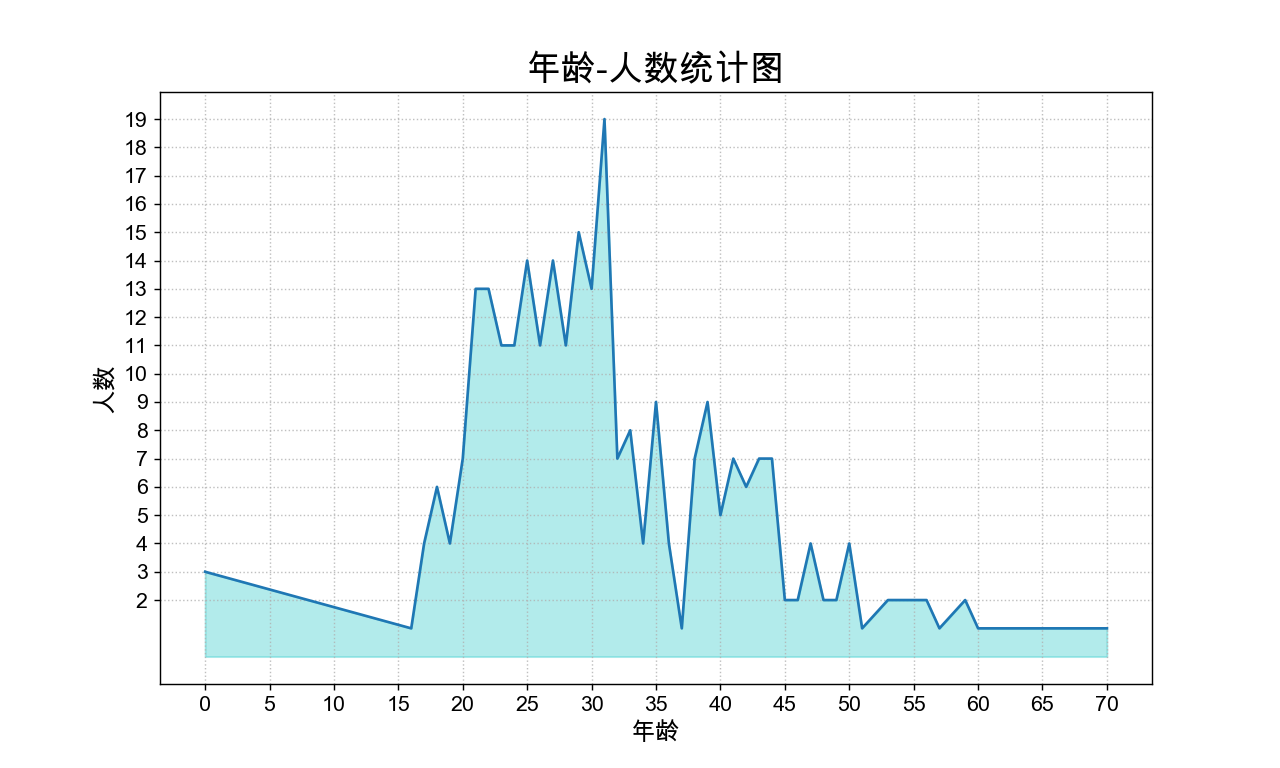
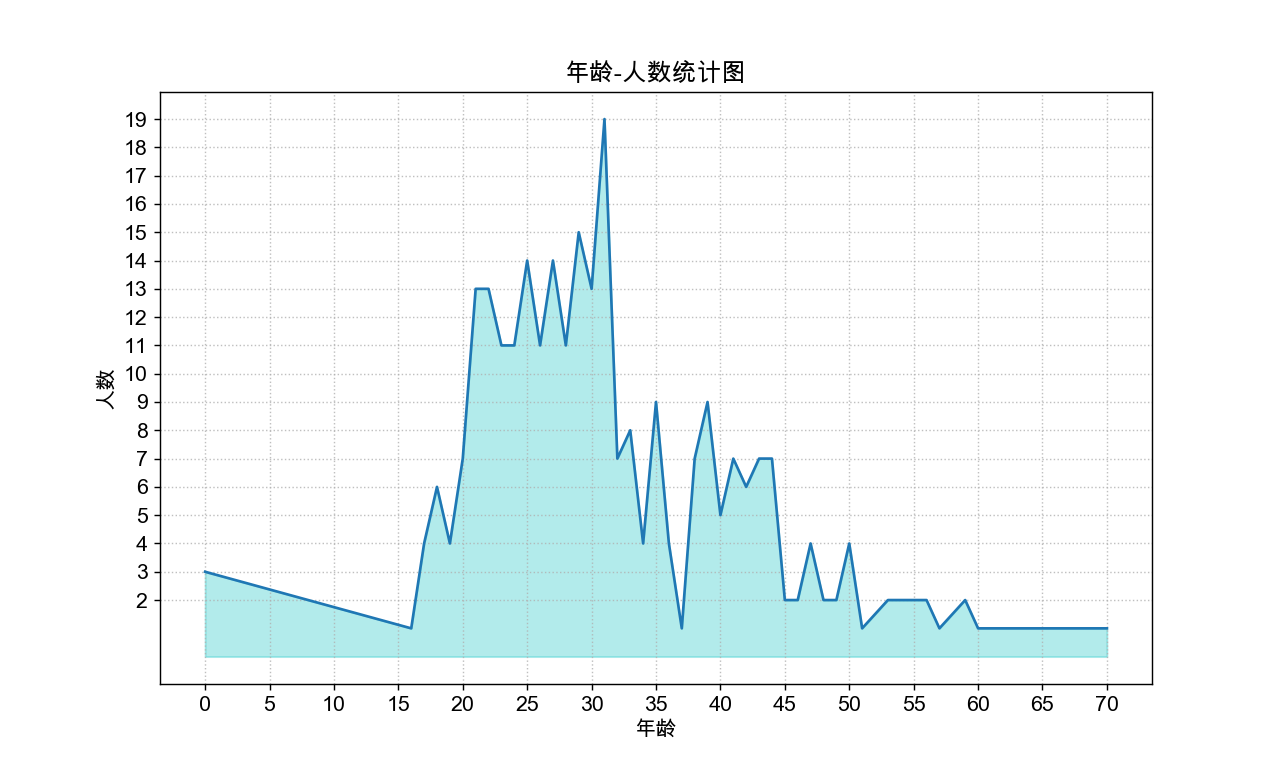
# 存储特征标签

Changed region(s): [[0.4062, 0.0625, 0.625, 0.125], [0.0625, 0.4688, 0.0938, 0.5312], [0.5, 0.9375, 0.5312, 0.9688]]

diff --git a/K-Means/matlab.py b/K-Means/matlab.py
@@ -12,7 +12,7 @@ plt.bar(gender.index, gender, width=0.5, color='c')
 plt.xticks(range(1,3),['男','女'])    #设置x轴刻度值对应range=[1, 2]
 plt.xlabel('性别', fontsize=12)
 plt.ylabel('人数', fontsize=12)
-plt.title('性别-人数统计图', fontsize=16)
+plt.title('性别-人数统计图', fontsize=14)
 # 保存图形
 plt.savefig('./data/性别-人数统计图',dpi=128)
 # 展示图形
@@ -31,9 +31,9 @@ plt.plot(age.index, age)
 plt.xticks(range(0,80,5), fontsize=12)
 plt.yticks(range(2,20), fontsize=12)
 plt.grid(ls=':',alpha=0.8)
-plt.xlabel('年龄', fontsize=14)
-plt.ylabel('人数', fontsize=14)
-plt.title('年龄-人数统计图', fontsize=20)
+plt.xlabel('年龄', fontsize=12)
+plt.ylabel('人数', fontsize=12)
+plt.title('年龄-人数统计图', fontsize=14)
 # 填充折线与x轴间的颜色，使结果更直观，颜色在x轴覆盖范围用age.index标识
 plt.fill_between(age.index, age, color='c', alpha=0.3)
 # 保存图形
@@ -53,8 +53,9 @@ plt.rcParams['font.sans-serif'] = 'Arial Unicode MS'
 # 绘制柱状图
 kmeans_analysis.plot(kind='bar', rot=0, yticks=range(-1,9))
 # 完善图表
-plt.title('聚类结果柱状图', fontsize=20)
-plt.xticks(range(0,4), ['第0类','第1类','第2类','第3类'])
+plt.title('聚类结果柱状图', fontsize=14)
+plt.xlabel('类别', fontsize=12)
+plt.xticks(range(0,4), ['第0类','第1类','第2类','第3类'], fontsize=12)
 plt.grid(axis='y',color='grey',linestyle='--',alpha=0.5)
 plt.ylabel('R,F,M 3个指标均值')
 
@@ -70,9 +71,9 @@ plt.rcParams['font.sans-serif'] = 'Arial Unicode MS'
 # 绘制柱状图
 result.plot(kind='bar', y='各类别人数', rot=0)    #使用DataFrame形变量自带的plot()函数来绘图，指定绘图类型为bar
 # 完善图表
-plt.xlabel('类别', fontsize=14)
-plt.ylabel('人数', fontsize=14)
-plt.title('聚类结果各类别人数统计图', fontsize=16)
+plt.xlabel('类别', fontsize=12)
+plt.ylabel('人数', fontsize=12)
+plt.title('聚类结果各类别人数统计图', fontsize=14)
 # 保存图形
 plt.savefig('./data/聚类结果各类别人数统计图',dpi=128)
 
@@ -88,7 +89,7 @@ fig = plt.figure(figsize=(10, 8))
 # 设置极坐标模式
 ax = fig.add_subplot(111, polar=True)
 # 存储特征标签
-feature =['R','F','M']
+feature =['R(最后一次消费距提数提数日的时间)','F(月均消费次数)','M(月均消费金额)']
 # 统计特征数
 N = len(feature)
 
@@ -103,7 +104,7 @@ for i, v in enumerate(center_num):
     ang = angles * 180/np.pi                                         #添加每个特征的标签
     ax.set_thetagrids(ang[:-1], feature)                             #添加每个特征的标签
 
-    plt.title('客户群特征分析图', fontsize=20)                          #添加标题
+    plt.title('客户群特征分析图', fontsize=14)                          #添加标题
     ax.grid()                                                        #添加网格线
     plt.legend(loc='upper right', bbox_to_anchor=(1.2, 1.0), shadow=True, fontsize=12)   #设置图例
     plt.savefig('./data/客户群特征分析图', dpi=128, bbox_inches='tight')                    #保存图形，指定bbox_inches来裁剪图形多余空白区域

diff --git a/K-Means/K_Means.py b/K-Means/K_Means.py
@@ -21,9 +21,9 @@ plt.rcParams['font.sans-serif'] = ['Songti SC']
 
 # 开始绘图
 plt.plot(x, SEE, 'o-')
-plt.xlabel('k值')
-plt.ylabel('SEE')
-plt.title('肘部图')
+plt.xlabel('k值', fontsize=12)
+plt.ylabel('SEE', fontsize=12)
+plt.title('肘部图', fontsize=14)
 plt.show()
 plt.savefig('./data/肘部图')
 
